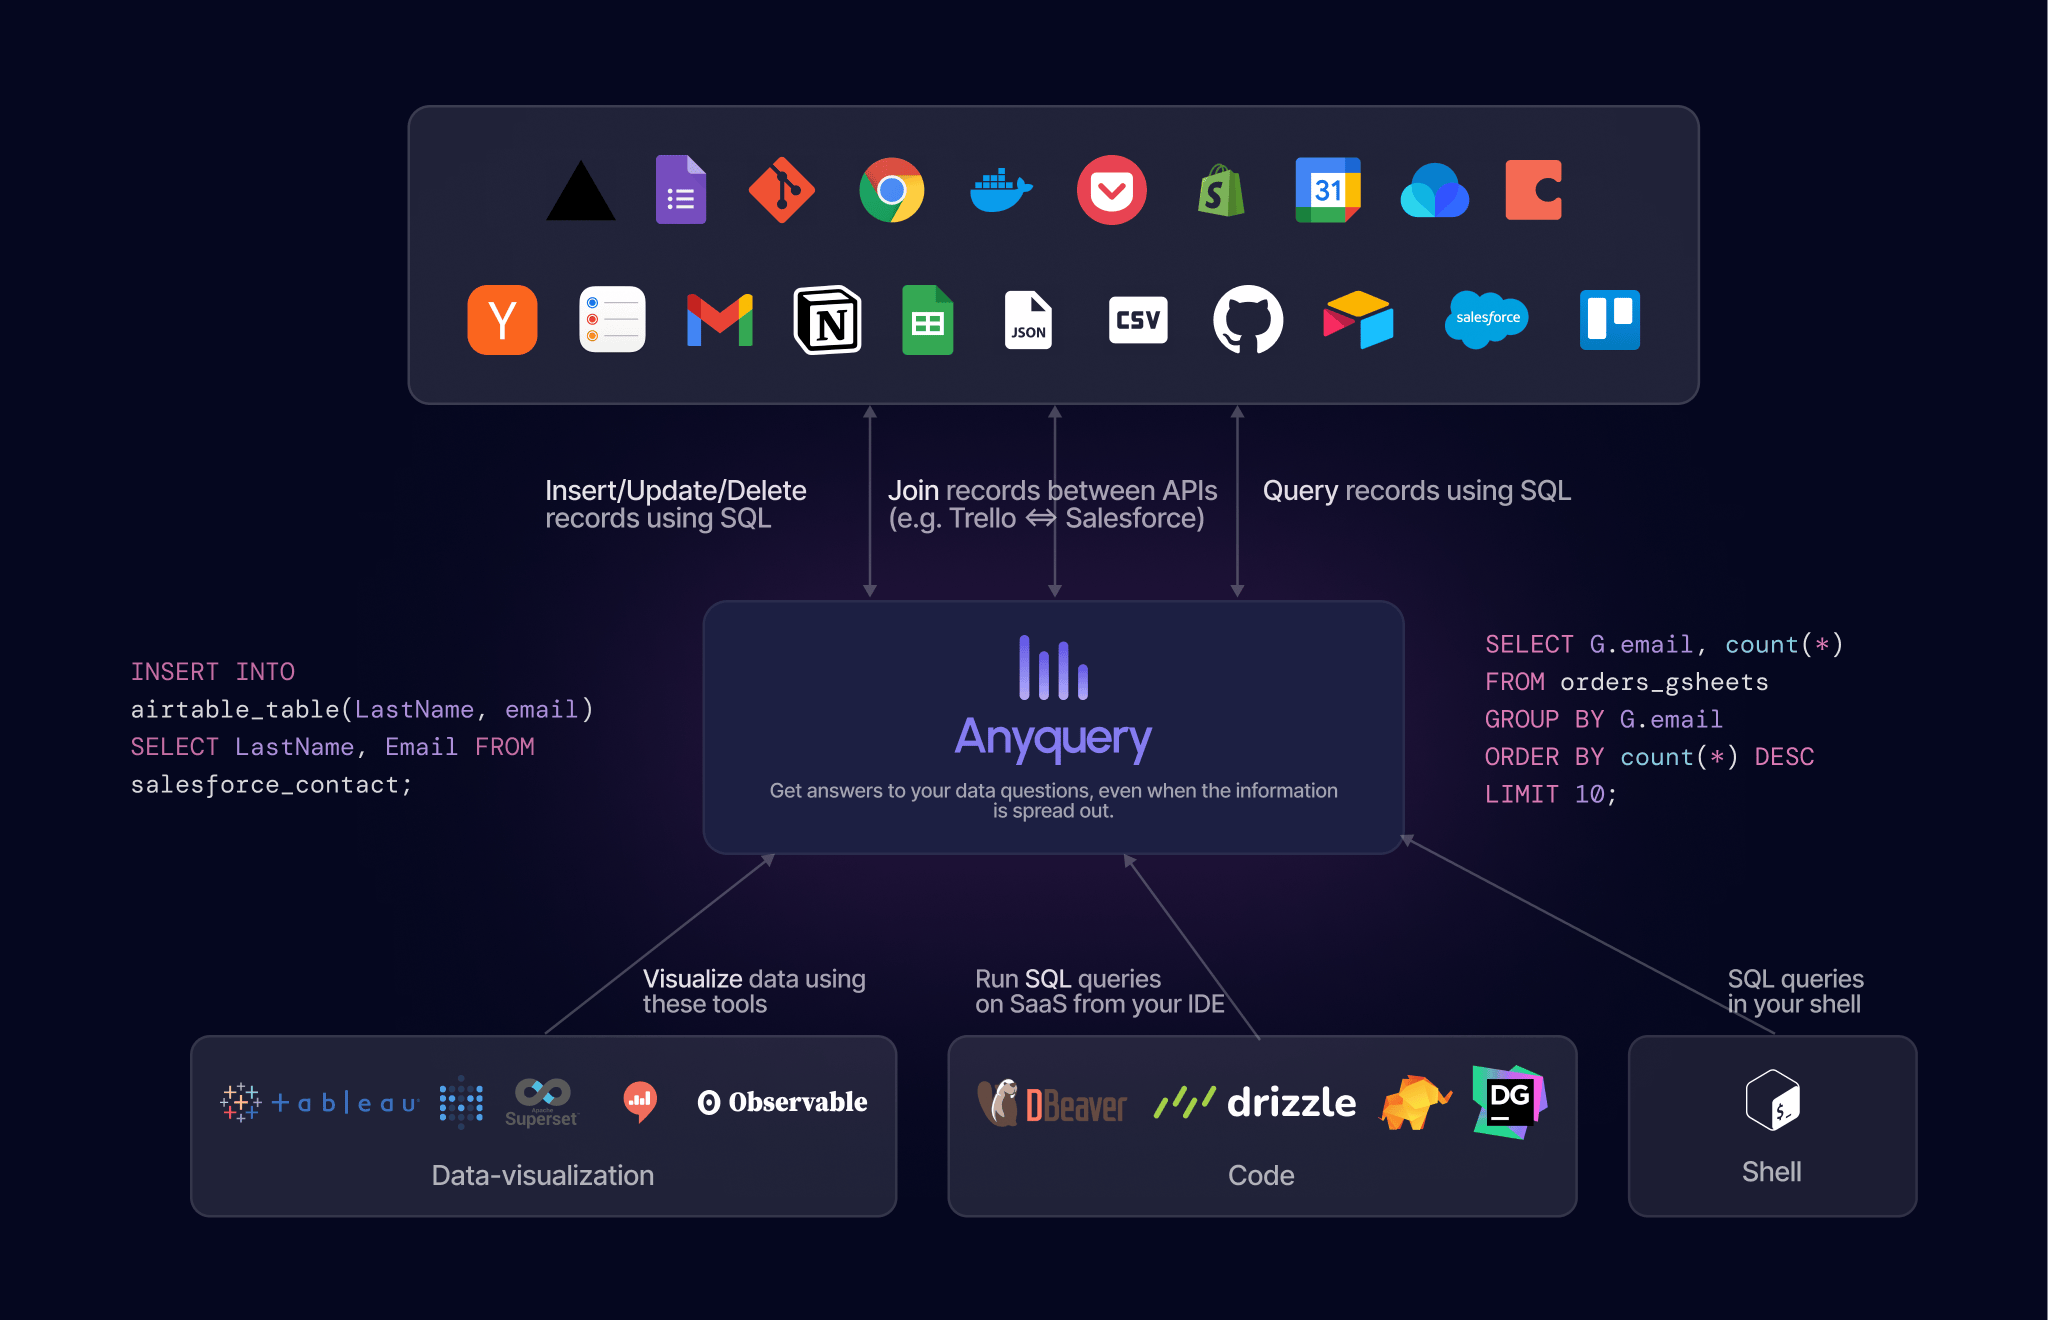
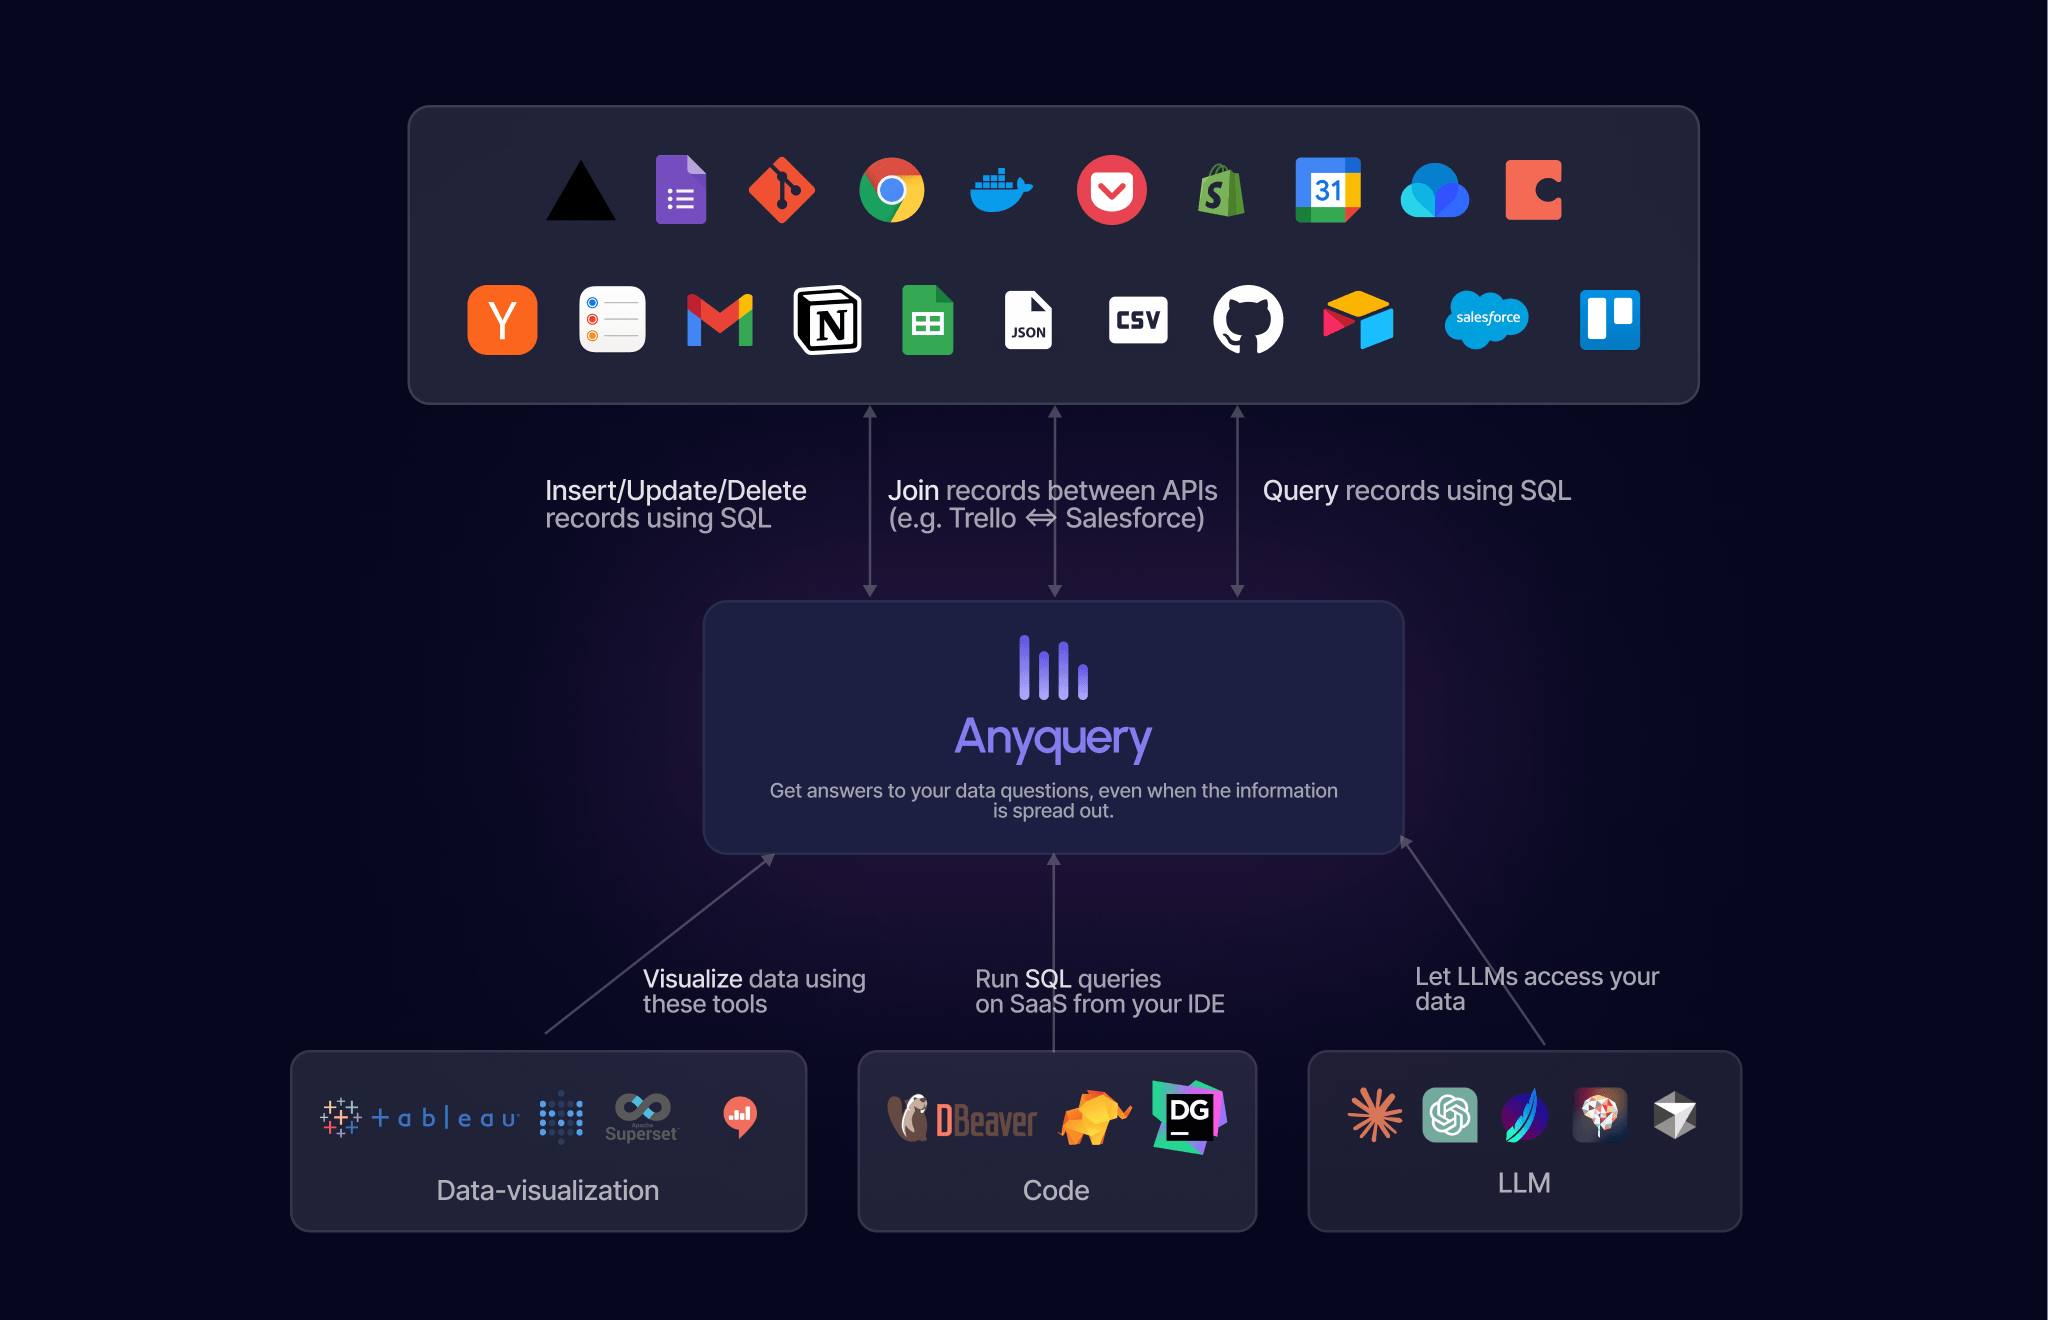
📝 Add MCP/function call to README.md

diff --git a/README.md b/README.md
@@ -10,30 +10,37 @@
 [![Dynamic JSON Badge](https://img.shields.io/badge/dynamic/json?url=https%3A%2F%2Fregistry.anyquery.dev%2Fv0%2Fquery%2F&query=%24.queries_count&style=flat&label=Queries%20from%20the%20hub&cacheSeconds=3600&link=https%3A%2F%2Fanyquery.dev%2Fqueries)](https://anyquery.dev/queries)
 [![Go Reference](https://pkg.go.dev/badge/github.com/julien040/anyquery@v0.1.3/namespace.svg)](https://pkg.go.dev/github.com/julien040/anyquery/namespace)
 
-Anyquery is a SQL query engine that allows you to run SQL queries on pretty much anything. It supports querying [JSON](https://anyquery.dev/docs/usage/querying-files/#json), [CSV](https://anyquery.dev/docs/usage/querying-files/#csv), [Parquet](https://anyquery.dev/docs/usage/querying-files/#parquet), SQLite, [Airtable bases](https://anyquery.dev/integrations/airtable/), [Google Sheets](https://anyquery.dev/integrations/google_sheets/), [Notion databases](https://anyquery.dev/integrations/notion/), and [log files](https://anyquery.dev/docs/usage/querying-log/) using [Grok](https://www.elastic.co/guide/en/elasticsearch/reference/current/grok.html), among others. It also supports running SQL queries on [remote files](https://anyquery.dev/docs/usage/querying-files/#remote-files) (HTTP, S3, GCS), local apps ([Apple Notes](https://anyquery.dev/integrations/notes/), [Apple Reminders](https://anyquery.dev/integrations/reminders/), [Google Chrome Tabs](https://anyquery.dev/integrations/chrome/), etc.), and databases ([MySQL](https://anyquery.dev/docs/database/mysql/) and [PostgreSQL](https://anyquery.dev/docs/database/postgresql/)). It's built on top of [SQLite](https://www.sqlite.org) and uses [plugins](https://anyquery.dev/integrations/) to extend its functionality.
+Anyquery is a SQL query engine that allows you to run SQL queries on pretty much anything. It supports querying [files](https://anyquery.dev/docs/usage/querying-files/), [databases](https://anyquery.dev/docs/database), and [apps](https://anyquery.dev/integrations) (e.g. Apple Notes, Notion, Chrome, Todoist, etc.). It's built on top of [SQLite](https://www.sqlite.org) and uses [plugins](https://anyquery.dev/integrations) to extend its functionality.
 
-Moreover, it can act as a [MySQL server](https://anyquery.dev/docs/usage/mysql-server/), allowing you to run SQL queries from your favorite MySQL-compatible client (e.g. [Looker Studio](https://anyquery.dev/connection-guide/looker-studio/), [DBeaver](https://anyquery.dev/connection-guide/dbeaver/), [TablePlus](https://anyquery.dev/connection-guide/tableplus/), [Metabase](https://anyquery.dev/connection-guide/metabase/), etc.).
+It can also connect to [LLMs](https://anyquery.dev/llm) (e.g. ChatGPT, Claude, Cursor, TypingMind, etc.) to allow them to access your data.
+
+Finally, it can act as a [MySQL server](https://anyquery.dev/docs/usage/mysql-server/), allowing you to run SQL queries from your favorite MySQL-compatible client (e.g. [TablePlus](https://anyquery.dev/connection-guide/tableplus/), [Metabase](https://anyquery.dev/connection-guide/metabase/), etc.).
 
 ![Anyquery header](https://anyquery.dev/images/release-header.png)
 
 ## Usage
 
+### Connecting LLM
+
+LLMs can connect to Anyquery using the [Model Context Protocol (MCP)](https://anyquery.dev/docs/reference/commands/anyquery_mcp). This protocol provides context for LLMs that support it. You can start the MCP server with the following command:
+
+```bash
+# To be started by the LLM client
+anyquery mcp
+# To connect using an HTTP and SSE tunnel
+anyquery mcp --tunnel
+```
+
+You can also connect to clients that supports function calling (e.g. ChatGPT, TypingMind). Refer to each [connection guide](https://anyquery.dev/integrations#llm) in the documentation for more information.
+
+![5ire example](https://anyquery.dev/images/docs/llm/5ire-final.png)
+
+### Running SQL queries
+
 The [documentation](https://anyquery.dev/docs/usage/running-queries) provides detailed instructions on how to run queries with Anyquery.
 But let's see a quick example. Type `anyquery` in your terminal to open the shell mode. Then, run the following query:
 
-```sql
--- List all repositories of asg017 related to SQLite
-SELECT full_name, stargazers_count, pushed_at FROM github_repositories_from_user('asg017') WHERE name LIKE '%sqlite%';
-
--- Count rows of a remote 75MB CSV file
-SELECT count(*) FROM read_csv('https://raw.githubusercontent.com/datadesk/california-coronavirus-data/master/latimes-place-totals.csv', header=true);
-
--- Insert into a Notion database all repositories of nalgeon related to SQLite
-INSERT INTO notion_database(repo, stars, last_push) SELECT full_name, stargazers_count, pushed_at FROM github_repositories_from_user('nalgeon') WHERE description LIKE '%sqlite%';
-
--- Close all tabs of the datasette documentation
-DELETE FROM chrome_tabs WHERE url LIKE '%datasette%';
-```
+![Anyquery SQL examples](https://anyquery.dev/images/anyquery_examples.sql.png)
 
 You can also launch the MySQL server with `anyquery server` and connect to it with your favorite MySQL-compatible client.
 

diff --git a/website/src/content/docs/docs/reference/Commands/anyquery_mcp.md b/website/src/content/docs/docs/reference/Commands/anyquery_mcp.md
@@ -1,0 +1,41 @@
+---
+title: anyquery mcp
+description: Learn how to use the anyquery mcp command in Anyquery.
+---
+
+Start the Model Context Protocol (MCP) server
+
+### Synopsis
+
+Start the Model Context Protocol (MCP) server. It is used to provide context for LLM that supports it. 
+Pass the --stdio flag to use standard input/output for communication. By default, it will bind locally to localhost:8070 (modify it with the --host, --port and --domain flags).
+You can also expose the tunnel to the internet by using the --tunnel flag (useful when the LLM is on a remote server).
+
+
+```bash
+anyquery mcp [flags]
+```
+
+### Options
+
+```bash
+  -c, --config string       Path to the configuration database
+  -d, --database string     Database to connect to (a path or :memory:)
+      --domain string       Domain to use for the HTTP tunnel (empty to use the host)
+      --extension strings   Load one or more extensions by specifying their path. Separate multiple extensions with a comma.
+  -h, --help                help for mcp
+      --host string         Host to bind to (default "127.0.0.1")
+      --in-memory           Use an in-memory database
+      --log-file string     Log file
+      --log-format string   Log format (text, json) (default "text")
+      --log-level string    Log level (trace, debug, info, warn, error, off) (default "info")
+      --port int            Port to bind to (default 8070)
+      --read-only           Open the SQLite database in read-only mode
+      --readonly            Open the SQLite database in read-only mode
+      --stdio               Use standard input/output for communication
+      --tunnel              Use an HTTP tunnel, and expose the server to the internet (when used, --host, --domain and --port are ignored)
+```
+
+### SEE ALSO
+
+* [anyquery](../anyquery)	 - A tool to query any data source

diff --git a/website/src/content/docs/docs/reference/Commands/anyquery_gpt.md b/website/src/content/docs/docs/reference/Commands/anyquery_gpt.md
@@ -1,0 +1,36 @@
+---
+title: anyquery gpt
+description: Learn how to use the anyquery gpt command in Anyquery.
+---
+
+Open an HTTP server so that ChatGPT can do function calls
+
+### Synopsis
+
+Open an HTTP server so that ChatGPT can do function calls. By default, it will expose a tunnel to the internet.
+By setting the --host or --port flags, you can disable the tunnel and bind to a specific host and port. In this case, you will need to configure your LLM to connect to this host and port.
+
+```bash
+anyquery gpt [flags]
+```
+
+### Options
+
+```bash
+  -c, --config string       Path to the configuration database
+  -d, --database string     Database to connect to (a path or :memory:)
+      --extension strings   Load one or more extensions by specifying their path. Separate multiple extensions with a comma.
+  -h, --help                help for gpt
+      --host string         Host to bind to. If not empty, the tunnel will be disabled
+      --in-memory           Use an in-memory database
+      --log-file string     Log file
+      --log-format string   Log format (text, json) (default "text")
+      --log-level string    Log level (trace, debug, info, warn, error, off) (default "info")
+      --port int            Port to bind to. If not empty, the tunnel will be disabled
+      --read-only           Open the SQLite database in read-only mode
+      --readonly            Open the SQLite database in read-only mode
+```
+
+### SEE ALSO
+
+* [anyquery](../anyquery)	 - A tool to query any data source

diff --git a/website/src/content/docs/docs/reference/Commands/anyquery.md b/website/src/content/docs/docs/reference/Commands/anyquery.md
@@ -59,7 +59,9 @@ anyquery -d ":memory:"
 * [anyquery alias](../anyquery_alias)	 - Manage the aliases
 * [anyquery completion](../anyquery_completion)	 - Generate the autocompletion script for the specified shell
 * [anyquery connection](../anyquery_connection)	 - Manage connections to other databases
+* [anyquery gpt](../anyquery_gpt)	 - Open an HTTP server so that ChatGPT can do function calls
 * [anyquery install](../anyquery_install)	 - Search and install a plugin
+* [anyquery mcp](../anyquery_mcp)	 - Start the Model Context Protocol (MCP) server
 * [anyquery plugins](../anyquery_plugins)	 - Print the plugins installed on the system
 * [anyquery profiles](../anyquery_profiles)	 - Print the profiles installed on the system
 * [anyquery query](../anyquery_query)	 - Run a SQL query

diff --git a/website/src/content/docs/docs/reference/Commands/anyquery_profiles_new.md b/website/src/content/docs/docs/reference/Commands/anyquery_profiles_new.md
@@ -10,11 +10,12 @@ Create a new profile
 Create a new profile.
 
 If only two arguments are provided, we consider that the registry is the default one.
+If only one argument is provided, the CLI will prompt you for the profile name, and will fallback to the default registry.
 If no argument is provided, the command will prompt you the registry, the plugin and the profile to create.
 Note: This command requires the tty to be interactive.
 
 ```bash
-anyquery profiles new [registry] [plugin] [profile] [flags]
+anyquery profiles new (registry plugin profile) | (plugin profile) | (plugin) [flags]
 ```
 
 ### Examples
